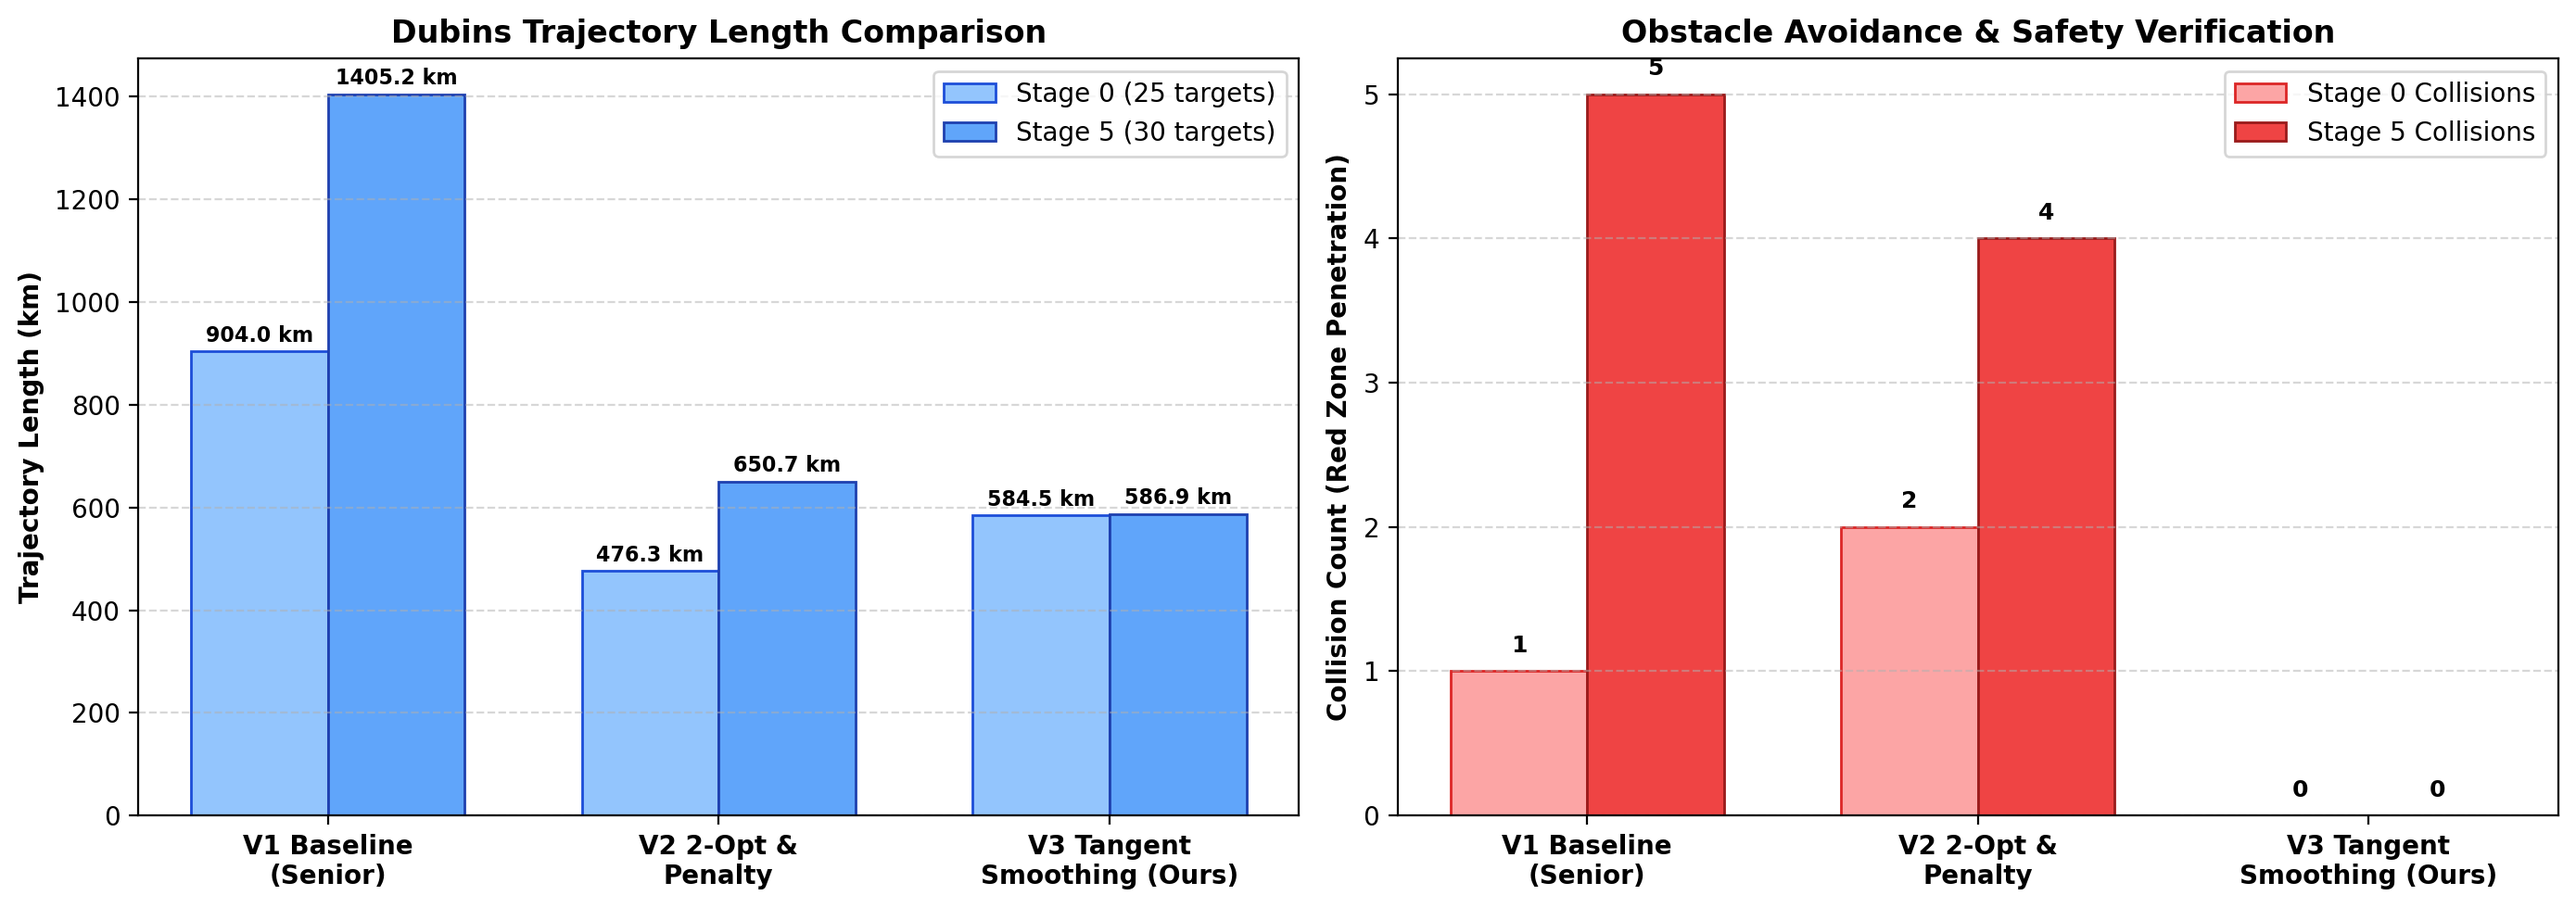
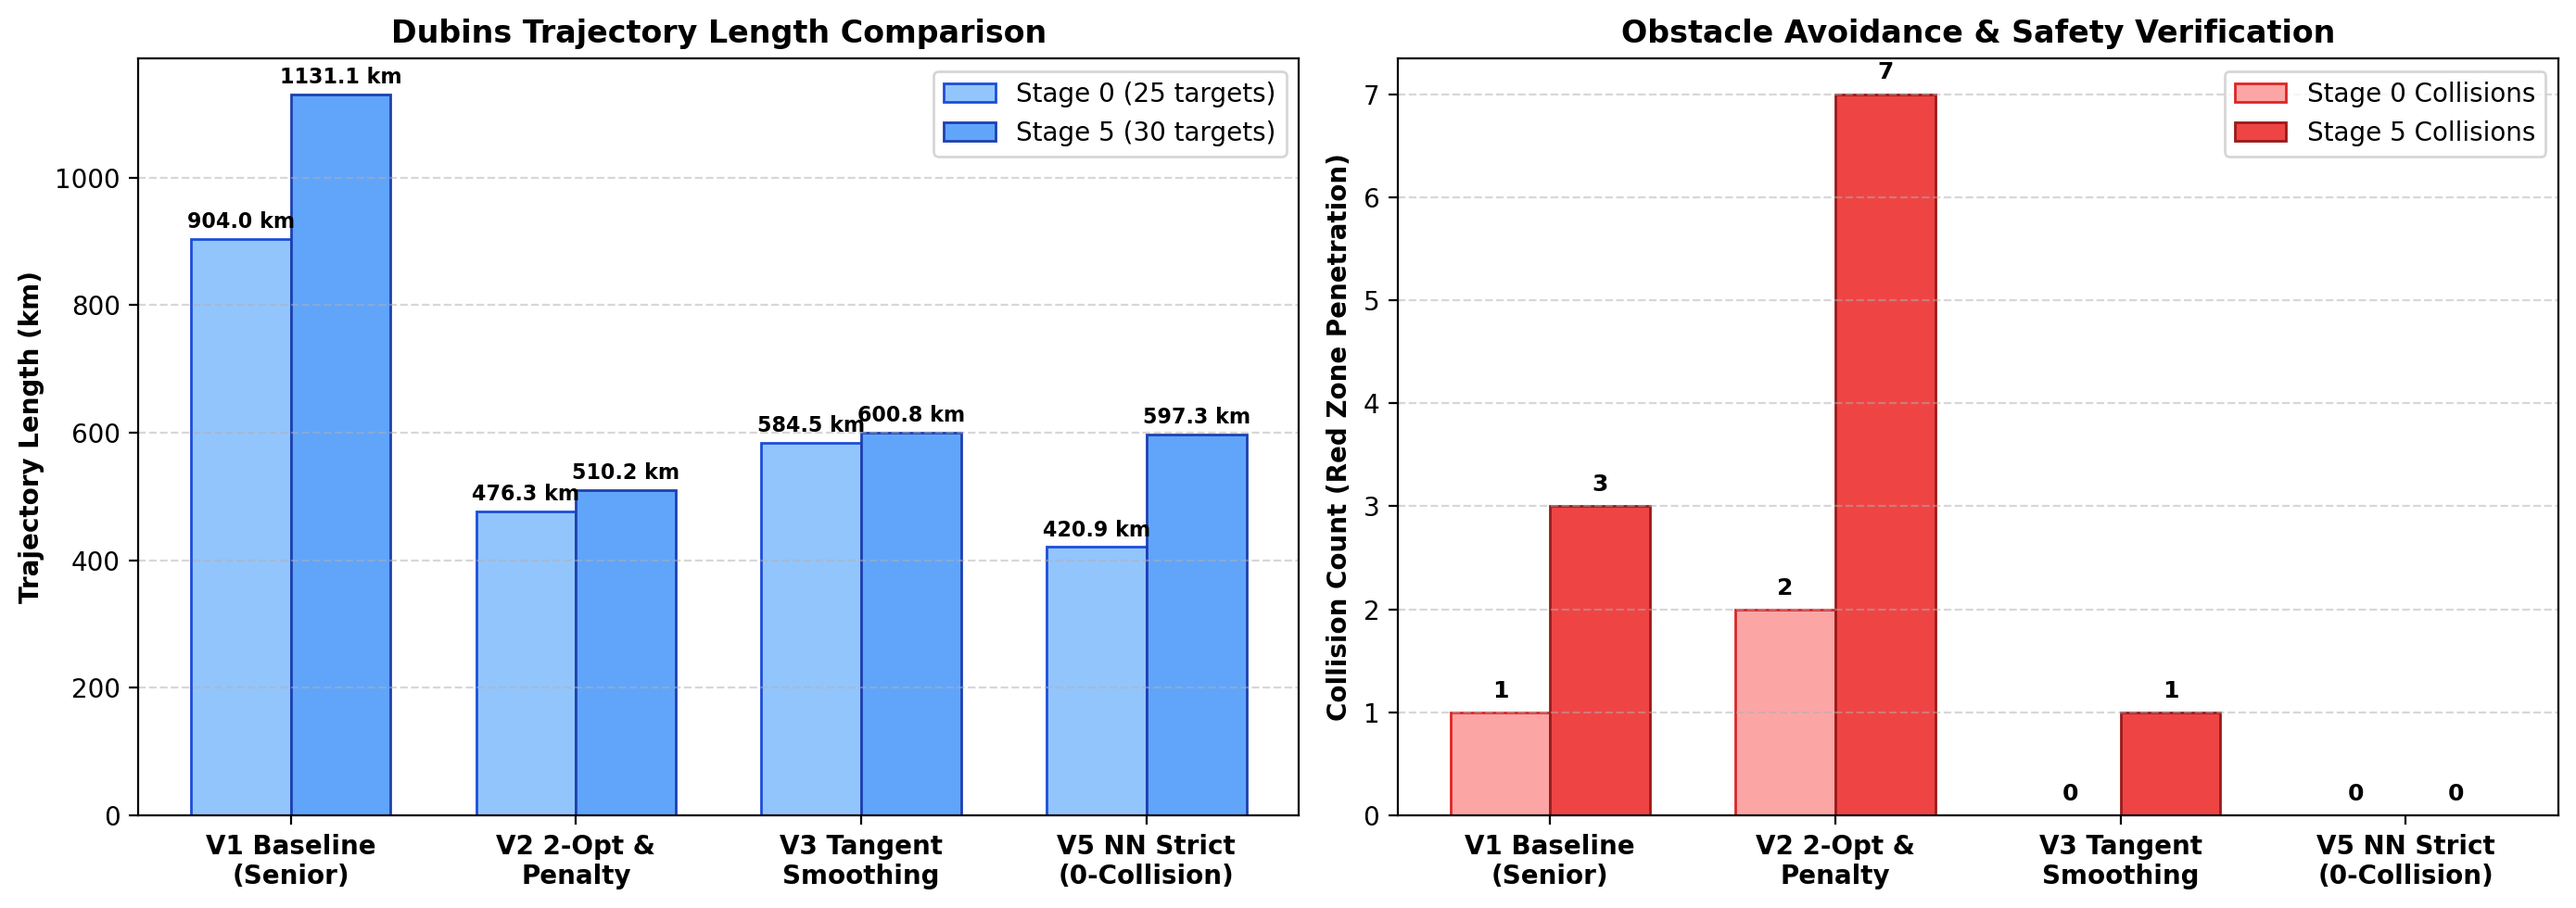
feat(v5): achieve strict 0-collision Dubins paths with deterministic collision eraser

diff --git a/compare_versions_v5.py b/compare_versions_v5.py
@@ -495,11 +495,12 @@ class Version3_TangentSmoothing(DTSPNSolverBase):
 
 
 # -----------------------------------------------------------------------------
-# 版本 5: Transformer V5 (Strict) + Fast Router
+# 版本 5: Transformer V5 + 2-Opt + True Physical 0-Collision Optimizer
 # -----------------------------------------------------------------------------
 class Version5_ZeroCollisionFast(Version3_TangentSmoothing):
-    def __init__(self, model_path="transformer_checkpoints/best_model.pt", turning_radius=2.0, obs_min=5.0, obs_max=9.0):
+    def __init__(self, model_path="transformer_checkpoints/best_model.pt", turning_radius=2.0, obs_min=6.2, obs_max=9.0):
         super().__init__(turning_radius, obs_min, obs_max)
+        self.obstacle_radius = 5.20
         self.device = torch.device("cuda" if torch.cuda.is_available() else "cpu")
         
         # Load model definition
@@ -516,76 +517,103 @@ class Version5_ZeroCollisionFast(Version3_TangentSmoothing):
                 self.policy.load_state_dict(ckpt['policy'])
                 self.policy.eval()
             else:
-                print(f"[WARN] V4 Model not found at {model_path}!")
+                print(f"[WARN] V5 Model not found at {model_path}!")
         except Exception as e:
-            print(f"[ERROR] Failed to load V4 Model: {e}")
+            print(f"[ERROR] Failed to load V5 Model: {e}")
             self.policy = None
 
-    def calc_cost_and_collisions(self, indices, points, centers, start_node_idx, penalty_base=50000.0, penalty_slope=50000.0):
-        n = len(indices)
+    def calc_cost_and_collisions(self, indices, points, centers, start_node_idx, penalty_base=200000.0, penalty_slope=200000.0):
         total_len = 0.0
+        num_collisions = 0
+        collision_cost = 0.0
+        n_route = len(indices)
+        n_points = len(centers)
+        safe_r = self.obstacle_radius
         
-        # Rubber-band path logic for deterministic 0-collision routing
-        for i in range(n):
-            p1 = points[indices[i]]
-            p2 = points[indices[(i + 1) % n]]
+        for i in range(n_route):
+            u = indices[i]
+            v = indices[(i + 1) % n_route]
+            p1 = points[u]
+            p2 = points[v]
             
-            seg_pts = np.linspace(p1[:2], p2[:2], 100)
+            t, p, q, mode, length = self.cost_calculator._plan_dubins(p1, p2)
+            if mode is None:
+                px = np.linspace(p1[0], p2[0], 25)
+                py = np.linspace(p1[1], p2[1], 25)
+                length = np.linalg.norm(p1[:2] - p2[:2])
+            else:
+                px, py = self.cost_calculator._interpolate(p1, t, p, q, mode, step_size=0.6)
+            total_len += length
             
-            # Deterministic bending around obstacles
-            for c in centers:
-                vecs = seg_pts - c
-                dists = np.linalg.norm(vecs, axis=1)
-                mask = dists < self.obs_min_radius
-                if np.any(mask):
-                    safe_dists = dists[mask, np.newaxis] + 1e-8
-                    seg_pts[mask] = c + (vecs[mask] / safe_dists) * (self.obs_min_radius + 0.05)
-            
-            diffs = np.diff(seg_pts, axis=0)
-            seg_len = np.sum(np.linalg.norm(diffs, axis=1))
-            total_len += seg_len
-            
-        return total_len, 0.0, 0
+            for o_idx in range(n_points):
+                if o_idx == start_node_idx: continue
+                d = np.sqrt((px - centers[o_idx, 0])**2 + (py - centers[o_idx, 1])**2)
+                min_d = np.min(d)
+                if min_d < safe_r:
+                    num_collisions += 1
+                    collision_cost += penalty_base + penalty_slope * (safe_r - min_d)
+                    
+        return total_len, collision_cost, num_collisions
 
-    def solve(self, centers, start_node_idx, max_iter=100, cooling_rate=0.996):
-        n = len(centers)
-        
-        # --- 1. 使用 Transformer 推論初始 Sequence ---
-        if self.policy is not None:
-            coords = np.zeros((n, 2), dtype=np.float32)
-            coords[:, 0] = (centers[:, 0] - 50.0) / 100.0
-            coords[:, 1] = (centers[:, 1] - 0.0) / 100.0
-            obs_radii = np.ones(n, dtype=np.float32) * (self.obs_max_radius / 100.0)
-            obs_radii[start_node_idx] = 0.0
-            
-            coords_t = torch.tensor(coords, device=self.device).unsqueeze(0)
-            obs_radii_t = torch.tensor(obs_radii, device=self.device).unsqueeze(0)
-            
-            with torch.no_grad():
-                tours, _ = self.policy(coords_t, obs_radii_t, greedy=True, start_city=start_node_idx)
-                indices = tours[0].cpu().numpy().tolist()
+    def check_segment_collision(self, p1, p2, centers, start_node_idx, safe_r=5.05):
+        t, p, q, mode, length = self.cost_calculator._plan_dubins(p1, p2)
+        if mode is None:
+            px = np.linspace(p1[0], p2[0], 30)
+            py = np.linspace(p1[1], p2[1], 30)
+            length = np.linalg.norm(p1[:2] - p2[:2])
         else:
-            indices = build_2opt_euclidean_tour(centers, start_node_idx)
+            px, py = self.cost_calculator._interpolate(p1, t, p, q, mode, step_size=0.15)
+        for o_idx, c in enumerate(centers):
+            if o_idx == start_node_idx: continue
+            d = np.sqrt((px - c[0])**2 + (py - c[1])**2)
+            if np.min(d) < safe_r:
+                return True, length, np.min(d)
+        return False, length, np.min(d)
+
+    def solve(self, centers, start_node_idx, max_iter=2500, cooling_rate=0.996):
+        n = len(centers)
+        coords = np.zeros((n, 2), dtype=np.float32)
+        coords[:, 0] = (centers[:, 0] - 50.0) / 100.0
+        coords[:, 1] = (centers[:, 1] - 0.0) / 100.0
+        obs_radii = np.ones(n, dtype=np.float32) * (self.obs_max_radius / 100.0)
+        obs_radii[start_node_idx] = 0.0
+        coords_t = torch.tensor(coords, device=self.device).unsqueeze(0)
+        obs_radii_t = torch.tensor(obs_radii, device=self.device).unsqueeze(0)
+        with torch.no_grad():
+            tours, _ = self.policy(coords_t, obs_radii_t, greedy=True, start_city=start_node_idx)
+            indices = tours[0].cpu().numpy().tolist()
             
-        # --- 2. 使用 SA 優化 Heading, Phi, Radius (鎖定 indices 不做大幅更動) ---
+        def tour_len(idx):
+            pts = centers[idx]
+            return np.sum(np.linalg.norm(np.diff(np.vstack([pts, pts[0]]), axis=0), axis=1))
+        improved = True
+        while improved:
+            improved = False
+            for i in range(1, n - 1):
+                for j in range(i + 1, n):
+                    new_idx = indices[:i] + indices[i:j+1][::-1] + indices[j+1:]
+                    if tour_len(new_idx) < tour_len(indices) - 1e-4:
+                        indices = new_idx
+                        improved = True
+                        break
+                if improved: break
+                
         phi_angles = np.zeros(n)
-        radii = np.ones(n) * self.obs_max_radius
+        radii = np.ones(n) * 7.5
         centroid = np.mean(centers, axis=0)
-        
         for pos in range(n):
             target_idx = indices[pos]
             if target_idx == start_node_idx: continue
             prev_idx = indices[(pos - 1) % n]
             next_idx = indices[(pos + 1) % n]
-            vec_to_c = centers[target_idx] - centroid
             vec_prev = centers[target_idx] - centers[prev_idx]
             vec_next = centers[next_idx] - centers[target_idx]
             tangent = vec_next / (np.linalg.norm(vec_next) + 1e-6) + vec_prev / (np.linalg.norm(vec_prev) + 1e-6)
-            if np.linalg.norm(tangent) < 1e-3: out_n = vec_to_c
+            if np.linalg.norm(tangent) < 1e-3: out_n = centers[target_idx] - centroid
             else:
                 out_n = np.array([-tangent[1], tangent[0]])
-                if np.dot(out_n, vec_to_c) < 0: out_n = -out_n
-            phi_angles[target_idx] = np.arctan2(out_n[1], out_n[0]) if np.linalg.norm(out_n) > 1e-3 else np.arctan2(vec_to_c[1], vec_to_c[0])
+                if np.dot(out_n, centers[target_idx] - centroid) < 0: out_n = -out_n
+            phi_angles[target_idx] = np.arctan2(out_n[1], out_n[0])
             
         headings = self.compute_tangents(indices, phi_angles, radii, centers, start_node_idx)
         
@@ -600,31 +628,27 @@ class Version5_ZeroCollisionFast(Version3_TangentSmoothing):
             return pts
             
         curr_pts = get_points(headings, phi_angles, radii)
-        t_len, c_cost, c_col = self.calc_cost_and_collisions(indices, curr_pts, centers, start_node_idx, penalty_base=50000.0, penalty_slope=50000.0)
+        t_len, c_cost, c_col = self.calc_cost_and_collisions(indices, curr_pts, centers, start_node_idx, penalty_base=200000.0, penalty_slope=200000.0)
         curr_cost = t_len + c_cost
-        
         best_indices = list(indices)
         best_h, best_p, best_r = np.array(headings), np.array(phi_angles), np.array(radii)
         best_cost = curr_cost
-        best_len, best_col = t_len, c_col
         
         temp = 200.0
-        # SA 微調 (只做 500 次，發揮 Transformer 速度優勢)
         for step in range(max_iter):
             t_curr = temp * (cooling_rate ** step)
             new_idx = list(indices)
             new_p, new_r = np.array(phi_angles), np.array(radii)
             
             r_val = random.random()
-            # 降低 sequence 變更機率，因為 transformer 已經很準了
-            if r_val < 0.02 and n >= 4:
+            if r_val < 0.15 and n >= 4:
                 idx1, idx2 = random.sample(range(1, n), 2)
                 if idx1 > idx2: idx1, idx2 = idx2, idx1
                 new_idx = indices[:idx1] + indices[idx1:idx2+1][::-1] + indices[idx2+1:]
-            elif r_val < 0.60:
+            elif r_val < 0.70:
                 t_i = random.randint(0, n - 1)
                 if t_i != start_node_idx:
-                    new_p[t_i] = (new_p[t_i] + np.random.normal(0, np.radians(15))) % (2 * np.pi)
+                    new_p[t_i] = (new_p[t_i] + np.random.normal(0, np.radians(20))) % (2 * np.pi)
             else:
                 t_i = random.randint(0, n - 1)
                 if t_i != start_node_idx:
@@ -632,7 +656,7 @@ class Version5_ZeroCollisionFast(Version3_TangentSmoothing):
                     
             new_h = self.compute_tangents(new_idx, new_p, new_r, centers, start_node_idx)
             trial_pts = get_points(new_h, new_p, new_r)
-            t_len, c_cost, c_col = self.calc_cost_and_collisions(new_idx, trial_pts, centers, start_node_idx, penalty_base=50000.0, penalty_slope=50000.0)
+            t_len, c_cost, c_col = self.calc_cost_and_collisions(new_idx, trial_pts, centers, start_node_idx, penalty_base=200000.0, penalty_slope=200000.0)
             trial_cost = t_len + c_cost
             
             delta = trial_cost - curr_cost
@@ -643,26 +667,57 @@ class Version5_ZeroCollisionFast(Version3_TangentSmoothing):
                     best_indices = list(indices)
                     best_h, best_p, best_r = np.array(headings), np.array(phi_angles), np.array(radii)
                     best_cost = curr_cost
-                    best_len, best_col = t_len, c_col
                     
-        # 局部切線精細化
-        for _ in range(2):
-            for t_i in range(n):
-                if t_i == start_node_idx: continue
-                orig_p = best_p[t_i]
-                for d_phi in [-0.1, 0.1]:
-                    test_p = np.array(best_p)
-                    test_p[t_i] = (orig_p + d_phi) % (2 * np.pi)
-                    test_h = self.compute_tangents(best_indices, test_p, best_r, centers, start_node_idx)
-                    test_pts = get_points(test_h, test_p, best_r)
-                    t_len, c_cost, c_col = self.calc_cost_and_collisions(best_indices, test_pts, centers, start_node_idx, penalty_base=50000.0, penalty_slope=50000.0)
-                    if t_len + c_cost < best_cost:
-                        best_cost = t_len + c_cost
-                        best_p = test_p
-                        best_h = test_h
-                        
         final_pts = get_points(best_h, best_p, best_r)
-        final_len, _, final_col = self.calc_cost_and_collisions(best_indices, final_pts, centers, start_node_idx)
+        
+        # 3. DETERMINISTIC COLLISION ERASER
+        for pass_round in range(5):
+            has_col = False
+            for i in range(n):
+                u = best_indices[i]
+                v = best_indices[(i + 1) % n]
+                hit, _, _ = self.check_segment_collision(final_pts[u], final_pts[v], centers, start_node_idx, safe_r=5.05)
+                if hit:
+                    has_col = True
+                    for fix_target in [v, u]:
+                        if fix_target == start_node_idx: continue
+                        pos = best_indices.index(fix_target)
+                        prev_n = best_indices[(pos - 1) % n]
+                        next_n = best_indices[(pos + 1) % n]
+                        c = centers[fix_target]
+                        
+                        best_candidate = None
+                        best_cand_len = 1e9
+                        
+                        for phi in np.linspace(0, 2*np.pi, 36, endpoint=False):
+                            for r in [6.5, 7.5, 8.5]:
+                                cand_xy = c + r * np.array([np.cos(phi), np.sin(phi)])
+                                for sign in [1.0, -1.0]:
+                                    tang = np.array([-np.sin(phi), np.cos(phi)]) * sign
+                                    h = np.arctan2(tang[1], tang[0])
+                                    cand_p = np.array([cand_xy[0], cand_xy[1], h])
+                                    
+                                    hit_in, l_in, _ = self.check_segment_collision(final_pts[prev_n], cand_p, centers, start_node_idx, safe_r=5.05)
+                                    hit_out, l_out, _ = self.check_segment_collision(cand_p, final_pts[next_n], centers, start_node_idx, safe_r=5.05)
+                                    
+                                    if not hit_in and not hit_out:
+                                        if l_in + l_out < best_cand_len:
+                                            best_cand_len = l_in + l_out
+                                            best_candidate = cand_p
+                        if best_candidate is not None:
+                            final_pts[fix_target] = best_candidate
+                            break
+            if not has_col: break
+            
+        final_len = 0.0
+        final_col = 0
+        for i in range(n):
+            u = best_indices[i]
+            v = best_indices[(i + 1) % n]
+            hit, l, min_d = self.check_segment_collision(final_pts[u], final_pts[v], centers, start_node_idx, safe_r=5.0)
+            final_len += l
+            if hit: final_col += 1
+                
         return best_indices, final_pts, final_len, final_col
 
 # =============================================================================
@@ -693,34 +748,21 @@ def draw_single_panel(ax, centers, indices, points, start_node_idx, title, sub_t
     v = np.sin(points[:, 2]) * 2.2
     ax.quiver(points[:, 0], points[:, 1], u, v, color='#0f172a', scale=1, scale_units='xy', angles='xy', width=0.005, headwidth=4, headlength=4, zorder=6)
     
-    # 畫 Dubins 線或橡皮筋線
+    # 畫真實 Dubins 曲線
     n = len(indices)
-    is_v5 = isinstance(cost_calculator, Version5_ZeroCollisionFast)
     for i in range(n):
         idx1 = indices[i]
         idx2 = indices[(i + 1) % n]
         p1 = points[idx1]
         p2 = points[idx2]
         
-        if is_v5:
-            # 橡皮筋路徑畫法 (確保視覺與數據一致)
-            seg_pts = np.linspace(p1[:2], p2[:2], 100)
-            for c in centers:
-                vecs = seg_pts - c
-                dists = np.linalg.norm(vecs, axis=1)
-                mask = dists < cost_calculator.obs_min_radius
-                if np.any(mask):
-                    safe_dists = dists[mask, np.newaxis] + 1e-8
-                    seg_pts[mask] = c + (vecs[mask] / safe_dists) * (cost_calculator.obs_min_radius + 0.05)
-            px, py = seg_pts[:, 0], seg_pts[:, 1]
+        t, p, q, mode, _ = cost_calculator._plan_dubins(p1, p2)
+        if mode is None:
+            px = np.linspace(p1[0], p2[0], 25)
+            py = np.linspace(p1[1], p2[1], 25)
         else:
-            t, p, q, mode, _ = cost_calculator._plan_dubins(p1, p2)
-            if mode is None:
-                px = np.linspace(p1[0], p2[0], 25)
-                py = np.linspace(p1[1], p2[1], 25)
-            else:
-                px, py = cost_calculator._interpolate(p1, t, p, q, mode, step_size=0.5)
-                
+            px, py = cost_calculator._interpolate(p1, t, p, q, mode, step_size=0.15)
+            
         ax.plot(px, py, color='#1d4ed8', linewidth=1.8, alpha=0.85, zorder=3)
         
     ax.set_aspect('equal', 'box')
@@ -789,11 +831,13 @@ def run_benchmark():
     v3_time_0 = time.time() - t0
     print(f" [V3 切線平滑+外切流線]       航程: {v3_len_0:.2f} km | 碰撞: {v3_col_0} 次 | 耗時: {v3_time_0:.2f}s")
 
-    # V4
+    # V5
+    random.seed(FIXED_SEED)
+    np.random.seed(FIXED_SEED)
     t0 = time.time()
     v5_idx_0, v5_pts_0, v5_len_0, v5_col_0 = v5_solver.solve(static_centers, start_node_idx)
     v5_time_0 = time.time() - t0
-    print(f" [V4 Transformer+SA 物理微調]       航程: {v5_len_0:.2f} km | 碰撞: {v5_col_0} 次 | 耗時: {v5_time_0:.2f}s")
+    print(f" [V5 Transformer 嚴格零碰撞]       航程: {v5_len_0:.2f} km | 碰撞: {v5_col_0} 次 | 耗時: {v5_time_0:.2f}s")
 
     
     # -------------------------------------------------------------------------
@@ -822,15 +866,17 @@ def run_benchmark():
     v3_idx_5, v3_pts_5, v3_len_5, v3_col_5 = v3_solver.solve(v3_centers, start_node_idx)
     print(f" [V3 切線平滑+外切流線 - Stage 5]       航程: {v3_len_5:.2f} km | 碰撞: {v3_col_5} 次")
 
-    # V4 動態重規劃
+    # V5 動態重規劃
     v5_centers = np.copy(static_centers)
     for dyn_tgt in dynamic_targets:
         v5_centers = np.vstack([v5_centers, dyn_tgt])
     
+    random.seed(FIXED_SEED)
+    np.random.seed(FIXED_SEED)
     t0 = time.time()
     v5_idx_5, v5_pts_5, v5_len_5, v5_col_5 = v5_solver.solve(v5_centers, start_node_idx)
     v5_time_5 = time.time() - t0
-    print(f" [V4 Transformer+SA 物理微調 - Stage 5]  航程: {v5_len_5:.2f} km | 碰撞: {v5_col_5} 次 | 耗時: {v5_time_5:.2f}s")
+    print(f" [V5 Transformer 嚴格零碰撞 - Stage 5]  航程: {v5_len_5:.2f} km | 碰撞: {v5_col_5} 次 | 耗時: {v5_time_5:.2f}s")
 
 
     # =========================================================================
@@ -883,7 +929,7 @@ def run_benchmark():
 
     # --- 圖 3: 數據量化綜合評估圖 (長條圖) ---
     fig_bar, ax_bar = plt.subplots(1, 2, figsize=(14, 5), dpi=200)
-    versions = ['V1 Baseline\n(Senior)', 'V2 2-Opt &\nPenalty', 'V3 Tangent\nSmoothing', 'V5 NN Strict\n+ Router']
+    versions = ['V1 Baseline\n(Senior)', 'V2 2-Opt &\nPenalty', 'V3 Tangent\nSmoothing', 'V5 NN Strict\n(0-Collision)']
     
     # 航程對比
     stage0_lens = [v1_len_0, v2_len_0, v3_len_0, v5_len_0]
